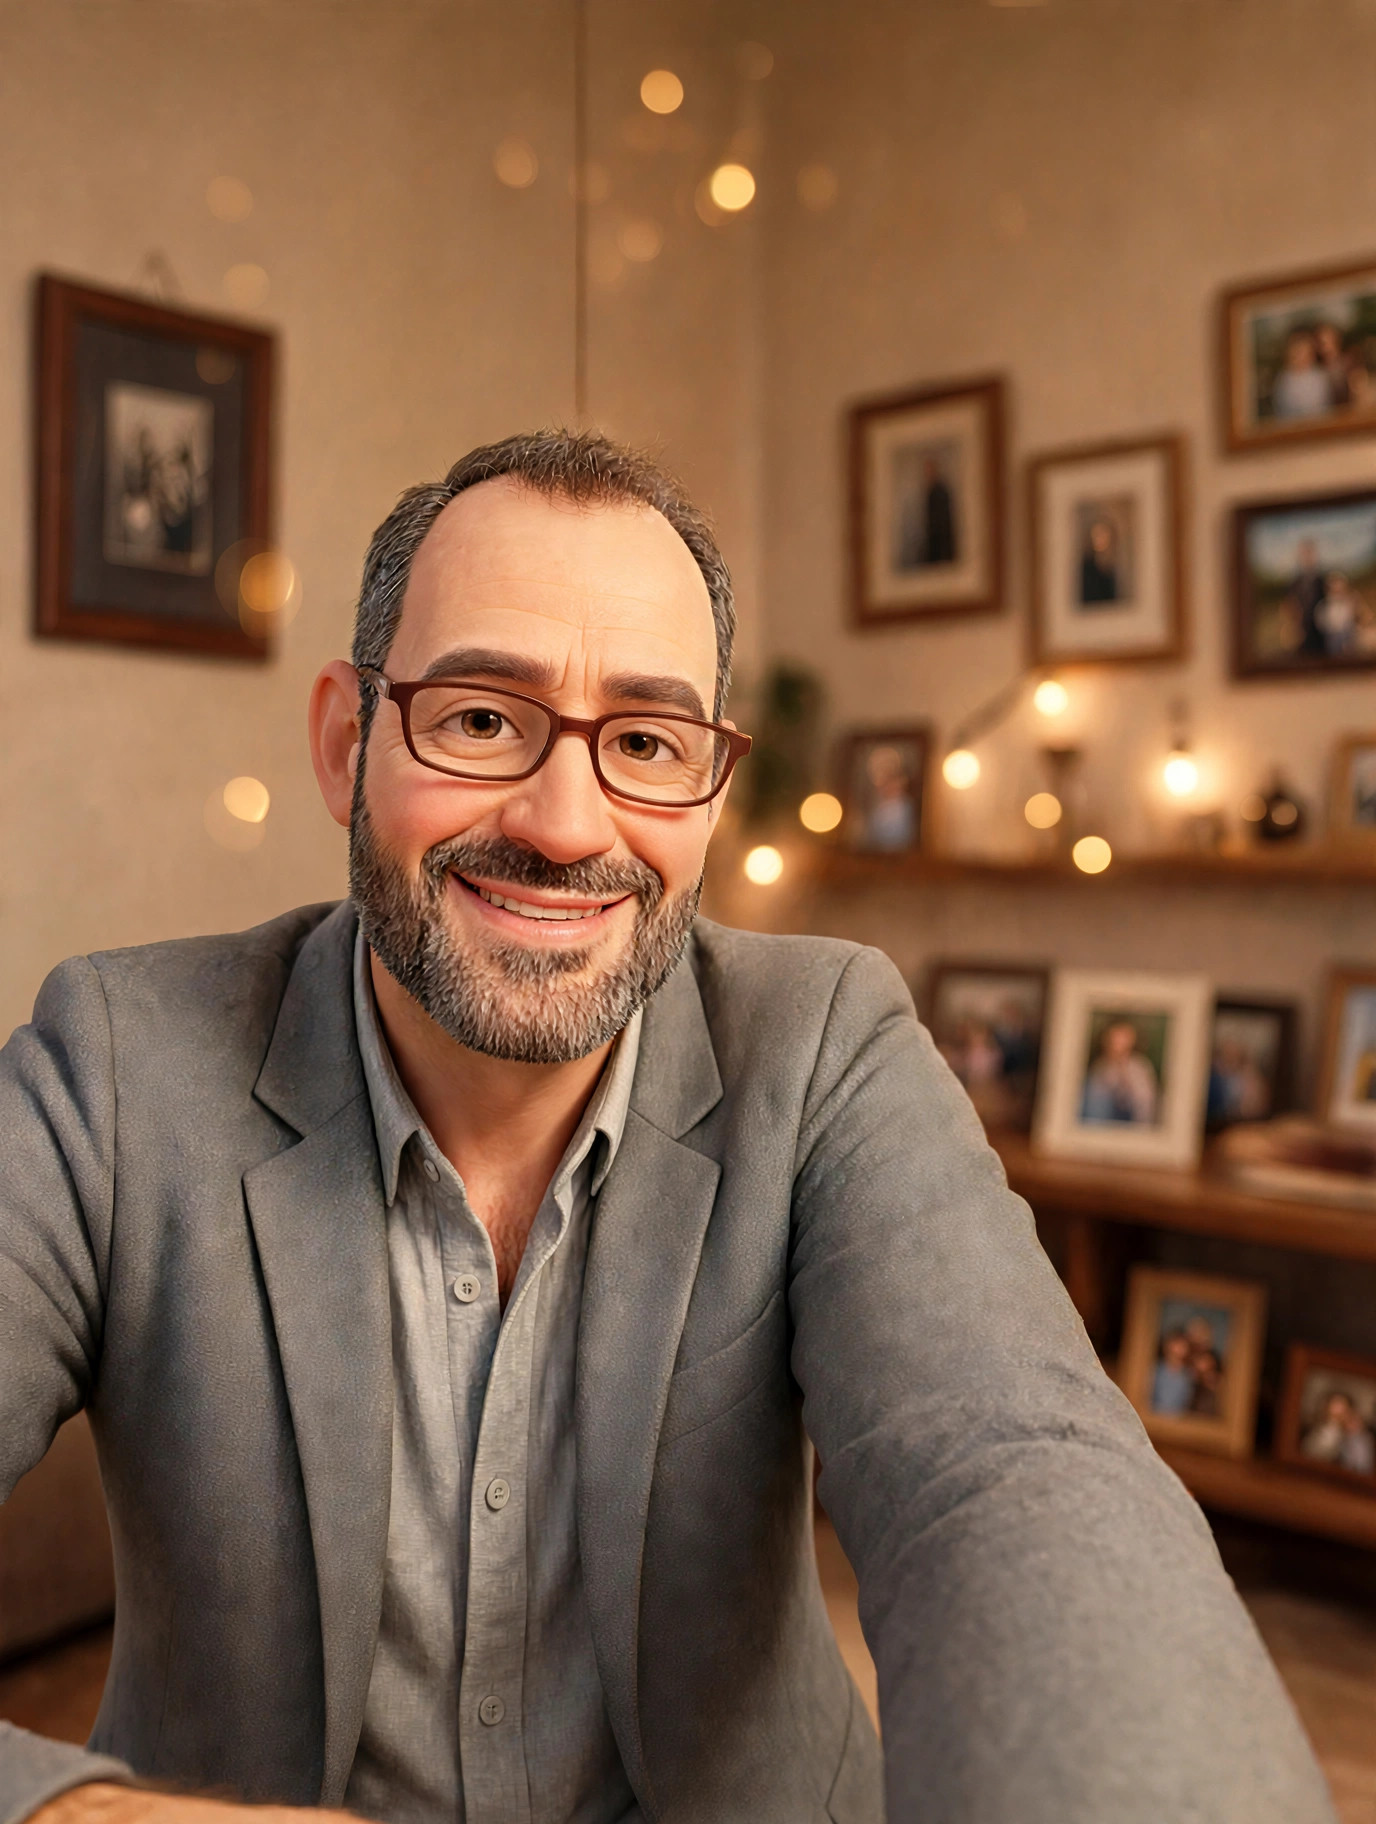
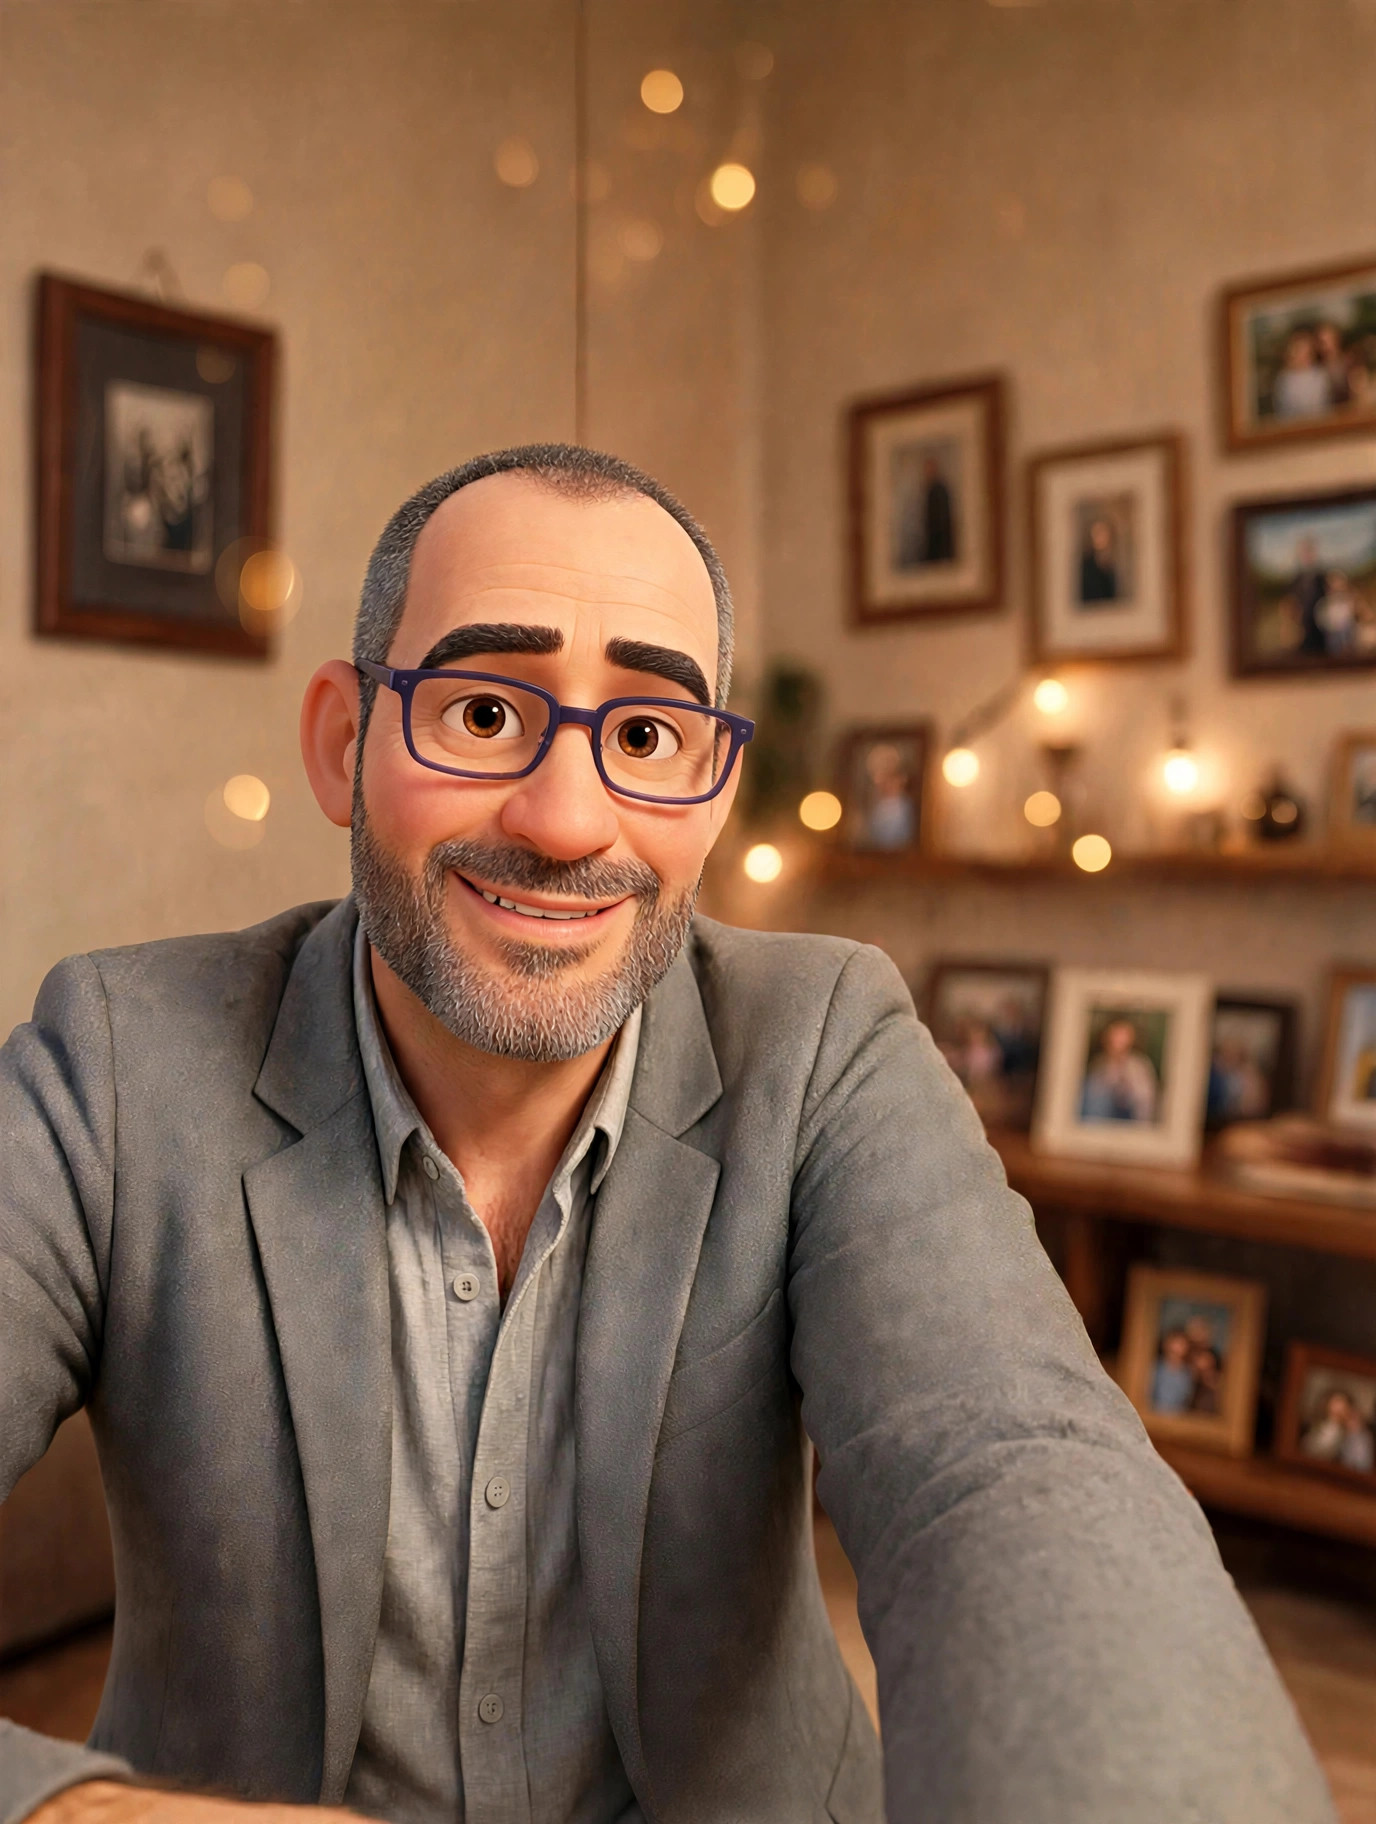
About portrait: family-pack Dad in the blazer (Jason-crowned likeness, same pose/background as the real photo); cache v=4

diff --git a/script.js b/script.js
@@ -7,7 +7,7 @@ const SITE = {
   // ---- Identity ----
   name: "Jason Nutt",
   photo: "images/jason.jpg", // polished headshot
-  photoPixar: "images/jason-pixar.jpg?v=3", // Pixar-style portrait (v=2 forces browsers to fetch the new file)
+  photoPixar: "images/jason-pixar.jpg?v=4", // Pixar-style portrait (v=4 forces browsers to fetch the new file)
 
   // ---- Contact & links (replace every TODO: with your real URL) ----
   email: "jnutt367@gmail.com",
